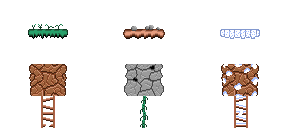
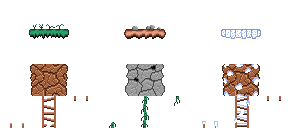
improved ladder climbing

diff --git a/tiles.py b/tiles.py
@@ -117,9 +117,21 @@ class Renderer(object):
         w = WORLD_SCALE
         h = ladder.height * WORLD_SCALE
 
+        # draw repeated ladder parts
         for i in range(ladder.height):
             self.surface.blit(tiles, (x, y - i * WORLD_SCALE),
-                          ((3 * tileset_col + 1) * WORLD_SCALE, LADDER_ROW * WORLD_SCALE, WORLD_SCALE, WORLD_SCALE * 2))
+                              ((3 * tileset_col + 1) * WORLD_SCALE, LADDER_ROW * WORLD_SCALE,
+                               WORLD_SCALE, WORLD_SCALE * 2))
+
+        # draw upper ladder part
+        self.surface.blit(tiles, (x, y - ladder.height * WORLD_SCALE),
+                          ((3 * tileset_col) * WORLD_SCALE, LADDER_ROW * WORLD_SCALE,
+                           WORLD_SCALE, WORLD_SCALE * 2))
+
+        # draw lower ladder part
+        self.surface.blit(tiles, (x, y + WORLD_SCALE),
+                          ((3 * tileset_col + 2) * WORLD_SCALE, LADDER_ROW * WORLD_SCALE,
+                           WORLD_SCALE, WORLD_SCALE * 2))
 
     def draw_platform(self, platform: platforms.Platform, tileset_col: int) -> None:
         """Draw a platform.
@@ -175,7 +187,7 @@ class Renderer(object):
         platformer.platforms.sort(key=lambda plat: plat.y)
 
         # FIXME: needs a better spot
-        tileset_col = 1
+        tileset_col = 0
 
         for p in platformer.platforms:
             self.draw_platform(p, tileset_col)

diff --git a/platforms.py b/platforms.py
@@ -134,7 +134,8 @@ def is_inside_platform(actor: Actor, platform: Platform) -> bool:
 def ladder_in_reach(actor: Actor, ladder: Ladder) -> bool:
     """Test whether the actor is in reach of the ladder.
     """
-    return ladder.x <= actor.x < ladder.x + 1 and ladder.y - 0.5 <= actor.y < ladder.y + ladder.height + 0.5
+    return ladder.x <= actor.x < ladder.x + 1 and\
+        ladder.y - actor.radius <= actor.y < ladder.y + ladder.height + OBJECT_RADIUS
 
 
 def did_traverse_above(actor: Actor, last_pos: pygame.math.Vector2, platform: Platform) -> bool:
@@ -433,7 +434,6 @@ class Physics(object):
         If the ladder is left, on_leave_ladder is triggered.
         """
         self.grab_ladder(actor)
-        print(actor.ladder)
 
         if actor.force_x != 0.0:
             if actor.ladder is not None:

diff --git a/main.py b/main.py
@@ -33,7 +33,7 @@ class Game(platforms.PhysicsListener, animations.AnimationListener):
 
         # horizontal platforms
         self.obj_manager.create_platform(x=0, y=1, width=3, height=2)
-        self.obj_manager.create_platform(x=0, y=4, width=4)
+        self.obj_manager.create_platform(x=0, y=4.5, width=4)
         self.obj_manager.create_platform(x=3, y=1, width=6, hover=platforms.Hovering(x=math.cos, y=math.sin))
         self.obj_manager.create_platform(x=6, y=6, width=4)
 
@@ -246,7 +246,7 @@ def main():
         # draw game
         buffer.fill('black')
         render.draw(phys, 0)
-        phys.draw(buffer)
+        # phys.draw(buffer)
 
         score_surface = render.font.render(f'SCORE: {game.score}', False, 'black')
         wrapper.buffer.blit(score_surface, (0, 0))
